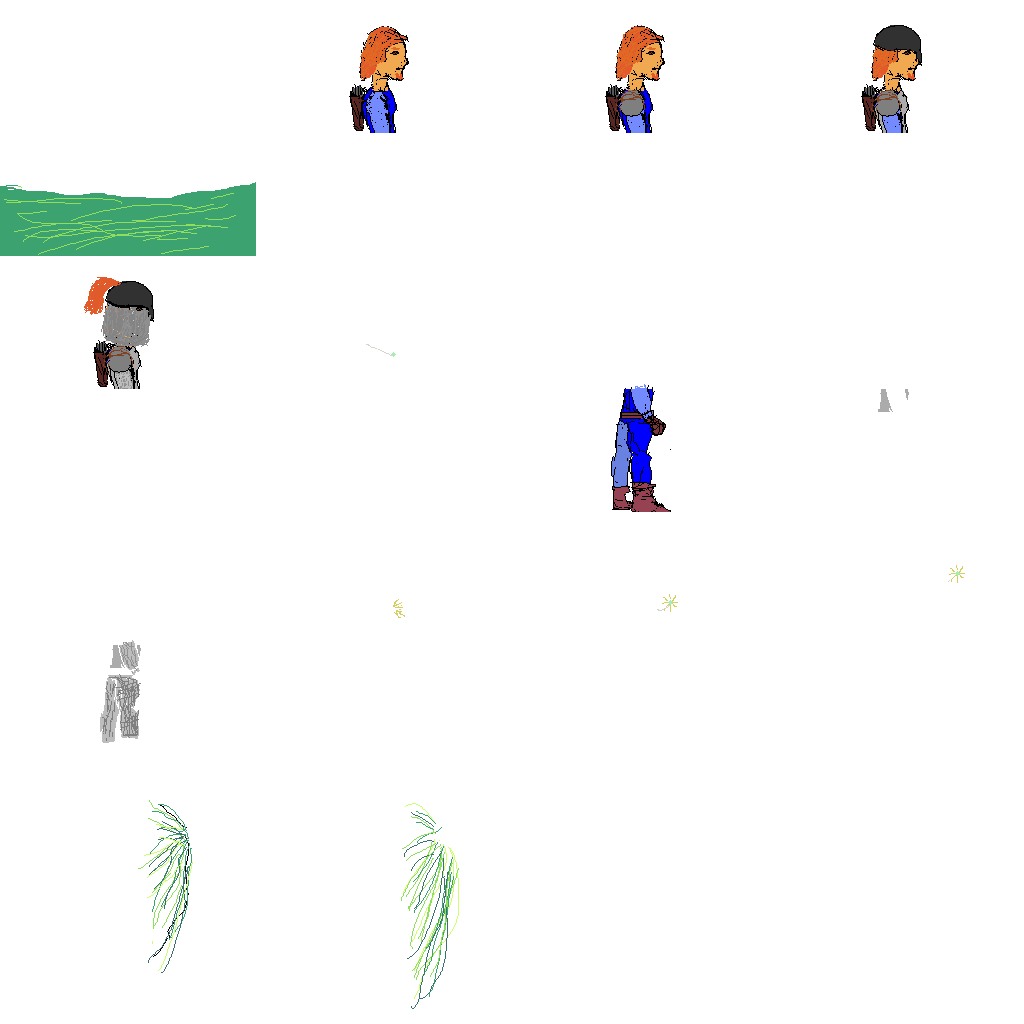
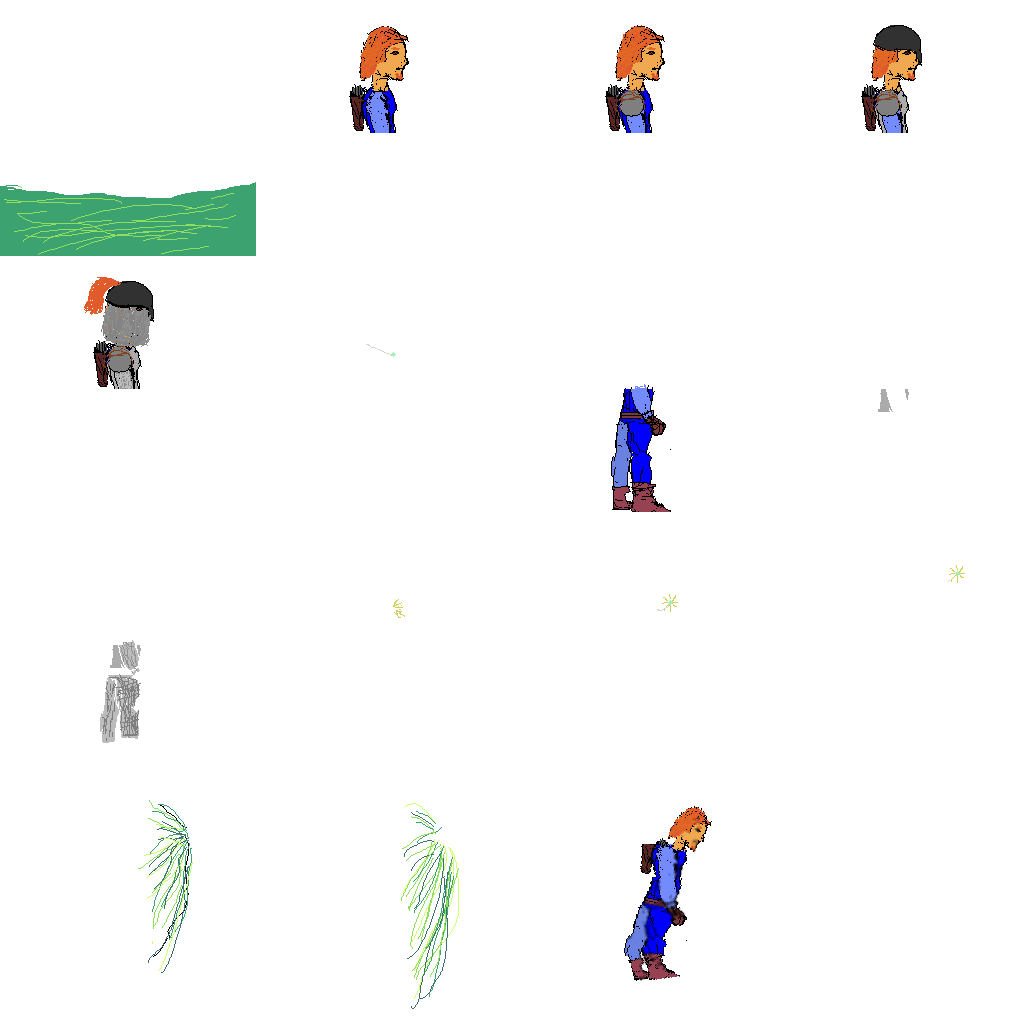
add portal

Changed region(s): [[0.5938, 0.7812, 0.6875, 0.9688]]

diff --git a/start.js b/start.js
@@ -557,7 +557,7 @@ function mod_init(mod)
     wid.setAt("map", "intro")
 
     // DEBUG  val uncomment to debug:
-    wid.setAt("map", "lvl20")
+    wid.setAt("map", "lvl02")
 
 
     wid.setAt("life-bar", 1)
@@ -594,6 +594,15 @@ function mod_init(mod)
 
     let textures = yeCreateArray(wid, "extra-textures")
     textures.setAt("upshoot", "up-shoot.png")
+
+    let portal_anim = yeCreateHash()
+    portal_anim.setAt("path", "img/portal.png")
+    let portal_rects = yeCreateArray(portal_anim, "rects")
+    portal_rects.push(ywRectCreateInts(32, 0, 32, 32))
+    portal_rects.push(ywRectCreateInts(64, 0, 32, 32))
+    portal_rects.push(ywRectCreateInts(0, 32, 32, 32))
+    portal_rects.push(ywRectCreateInts(32, 32, 32, 32))
+    textures.setAt("portal", portal_anim)
 
     let bullet_array = yeCreateArray()
     bullet_array.setAt(0, "M484ExplosionSet2.png")
